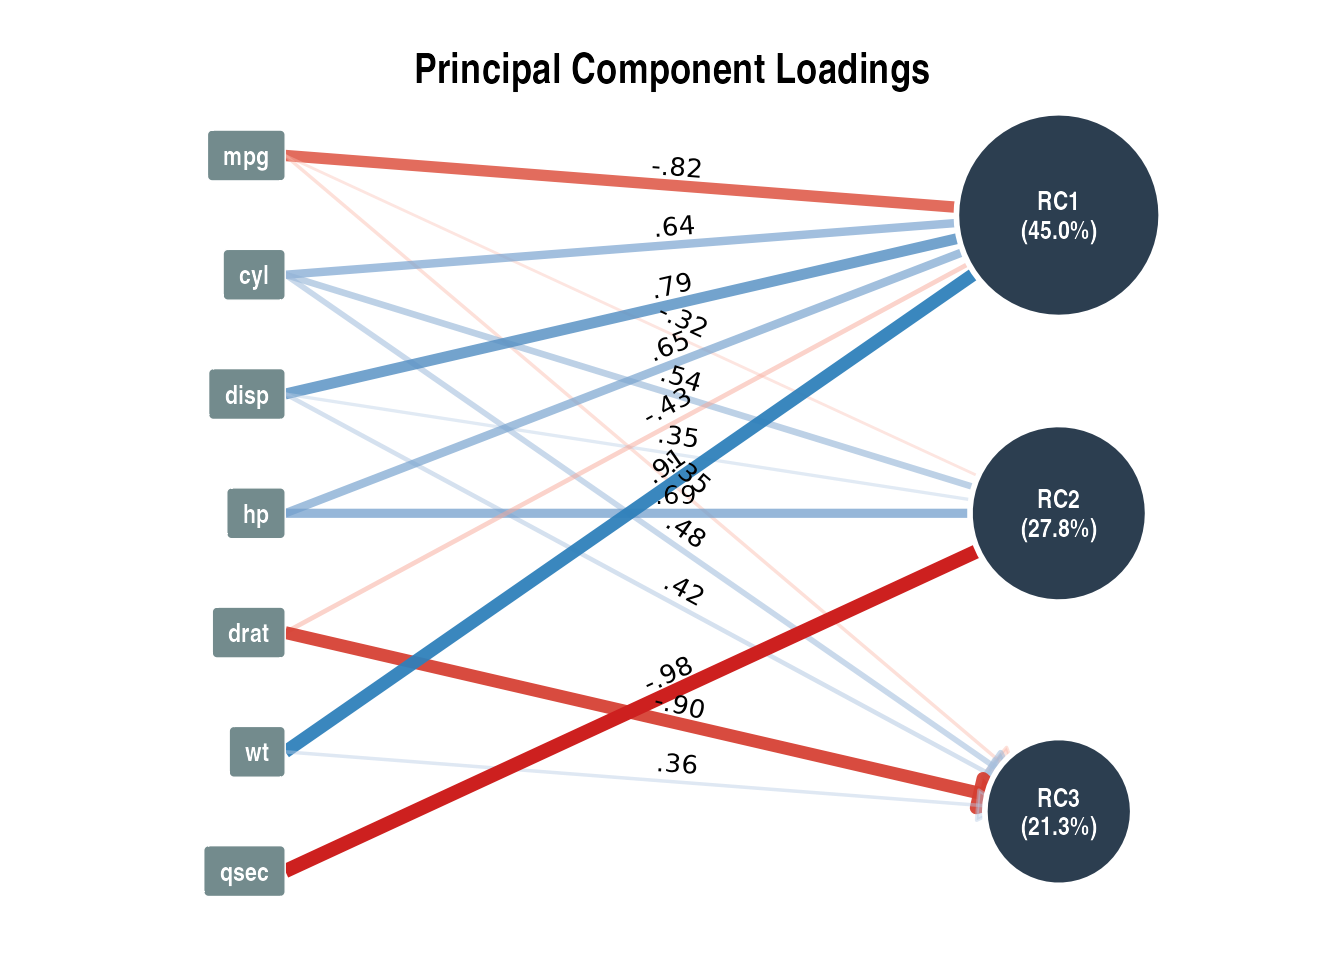
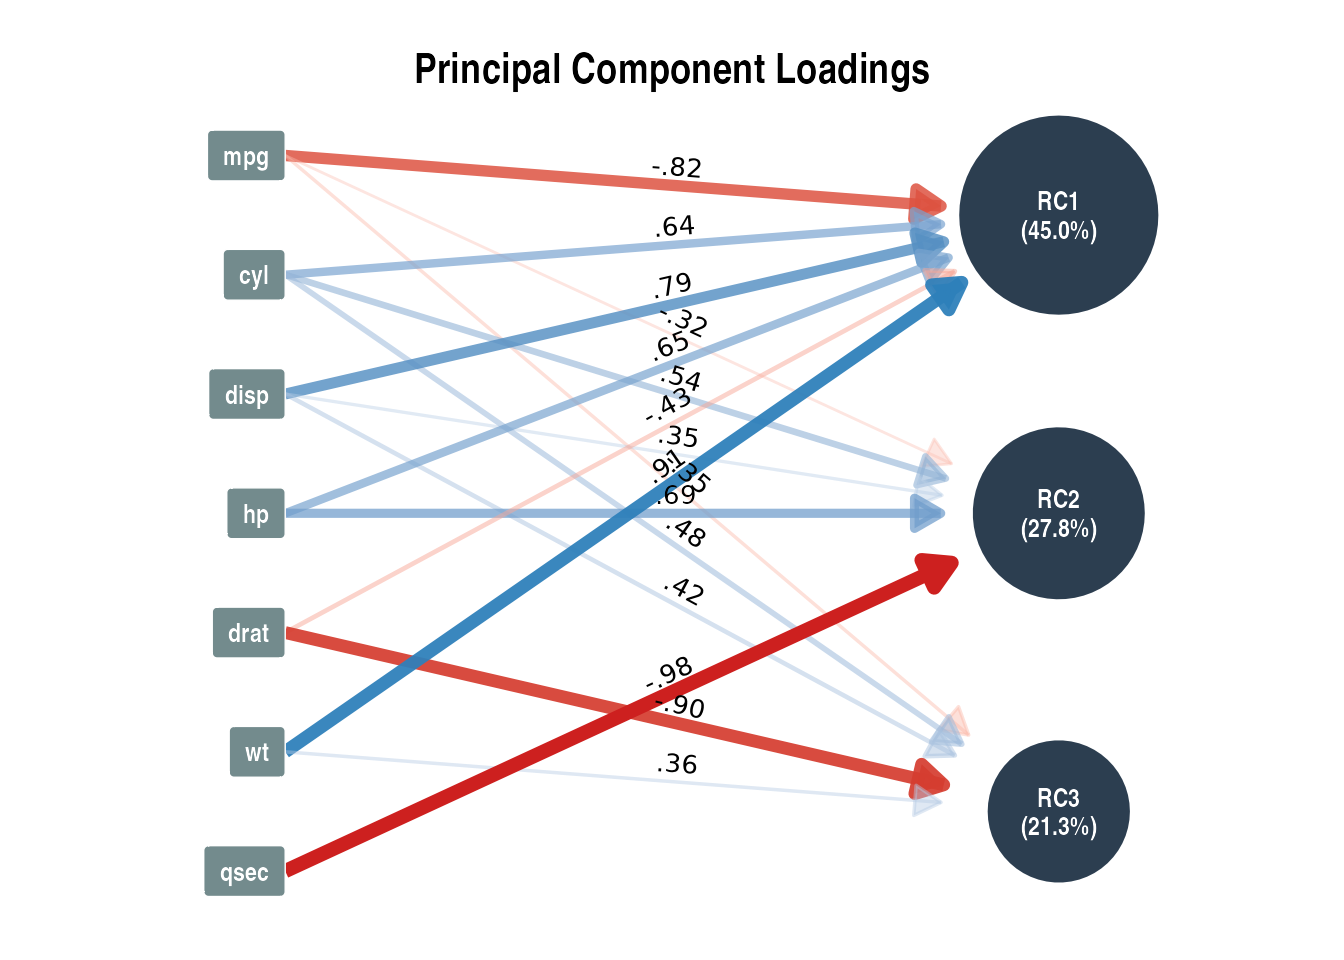
Deploying to gh-pages from @ easystats/see@15fb01349b0c44c6e8c901e8c531a3f6f2acf0a5 🚀

Changed region(s): [[0.6562, 0.4688, 0.75, 0.625], [0.6562, 0.7188, 0.75, 0.8438], [0.6562, 0.1875, 0.7188, 0.3438]]

diff --git a/articles/bayestestR.html b/articles/bayestestR.html
@@ -829,9 +829,10 @@ pizza?):</p>
 <span>  <span class="fu"><a href="../reference/scale_color_flat.html">scale_fill_flat</a></span><span class="op">(</span>palette <span class="op">=</span> <span class="st">"rainbow"</span>, reverse <span class="op">=</span> <span class="cn">TRUE</span><span class="op">)</span></span></code></pre></div>
 <p><img src="bayestestR_files/figure-html/unnamed-chunk-29-1.png" class="r-plt" alt="" width="100%"></p>
 </div>
-<div class="section level3">
-<h3 id="posterior-predictive-checks">Posterior Predictive Checks<a class="anchor" aria-label="anchor" href="#posterior-predictive-checks"></a>
-</h3>
+</div>
+<div class="section level2">
+<h2 id="posterior-predictive-checks">Posterior Predictive Checks<a class="anchor" aria-label="anchor" href="#posterior-predictive-checks"></a>
+</h2>
 <p><em>(<a href="https://easystats.github.io/performance/reference/check_predictions.html" class="external-link">related
 function documentation</a>)</em></p>
 <p>Posterior predictive checks can be used to look for systematic
@@ -840,7 +841,6 @@ well the data fits to the distributional assumption of the model.</p>
 <div class="sourceCode" id="cb34"><pre class="downlit sourceCode r">
 <code class="sourceCode R"><span><span class="fu"><a href="https://rdrr.io/r/graphics/plot.default.html" class="external-link">plot</a></span><span class="op">(</span><span class="fu"><a href="https://easystats.github.io/performance/reference/check_predictions.html" class="external-link">check_predictions</a></span><span class="op">(</span><span class="va">model</span><span class="op">)</span><span class="op">)</span></span></code></pre></div>
 <p><img src="bayestestR_files/figure-html/unnamed-chunk-30-1.png" class="r-plt" alt="" width="100%"></p>
-</div>
 </div>
 
   </main><aside class="col-md-3"><nav id="toc" aria-label="Table of contents"><h2>On this page</h2>

diff --git a/articles/parameters.html b/articles/parameters.html
@@ -751,7 +751,7 @@ function documentation</a>)</em></p>
 <div class="sourceCode" id="cb39"><pre class="downlit sourceCode r">
 <code class="sourceCode R"><span><span class="co"># Graph</span></span>
 <span><span class="va">result</span> <span class="op">&lt;-</span> <span class="fu"><a href="https://easystats.github.io/parameters/reference/principal_components.html" class="external-link">principal_components</a></span><span class="op">(</span><span class="va">mtcars</span><span class="op">[</span>, <span class="fl">1</span><span class="op">:</span><span class="fl">7</span><span class="op">]</span>, n <span class="op">=</span> <span class="fl">3</span>, rotation <span class="op">=</span> <span class="st">"varimax"</span><span class="op">)</span></span>
-<span><span class="fu"><a href="https://rdrr.io/r/graphics/plot.default.html" class="external-link">plot</a></span><span class="op">(</span><span class="va">result</span>, type <span class="op">=</span> <span class="st">"graph"</span><span class="op">)</span></span></code></pre></div>
+<span><span class="fu"><a href="https://rdrr.io/r/graphics/plot.default.html" class="external-link">plot</a></span><span class="op">(</span><span class="va">result</span>, type <span class="op">=</span> <span class="st">"graph"</span>, arrow_end_gap <span class="op">=</span> <span class="fl">0.15</span><span class="op">)</span></span></code></pre></div>
 <p><img src="parameters_files/figure-html/unnamed-chunk-38-1.png" class="r-plt" alt="" width="672"></p>
 <div class="sourceCode" id="cb40"><pre class="downlit sourceCode r">
 <code class="sourceCode R"><span><span class="co"># lines</span></span>

diff --git a/articles/bayestestR.md b/articles/bayestestR.md
@@ -864,7 +864,7 @@ plot(result, n_pies = "many", value = "BF") +
 
 ![](bayestestR_files/figure-html/unnamed-chunk-29-1.png)
 
-### Posterior Predictive Checks
+## Posterior Predictive Checks
 
 *([related function
 documentation](https://easystats.github.io/performance/reference/check_predictions.html))*

diff --git a/articles/parameters.md b/articles/parameters.md
@@ -793,7 +793,7 @@ plot(result)
 
 # Graph
 result <- principal_components(mtcars[, 1:7], n = 3, rotation = "varimax")
-plot(result, type = "graph")
+plot(result, type = "graph", arrow_end_gap = 0.15)
 ```
 
 ![](parameters_files/figure-html/unnamed-chunk-38-1.png)